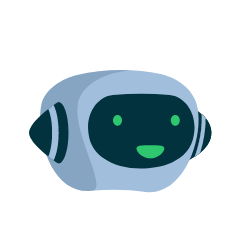
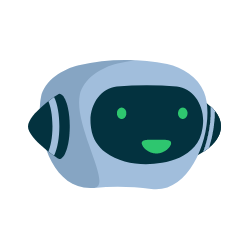
Alteração

Changed region(s): [[0.112, 0.224, 0.896, 0.784], [0.448, 0.42, 0.504, 0.504], [0.672, 0.728, 0.7, 0.756]]

diff --git a/Sobre.html b/Sobre.html
@@ -7,7 +7,7 @@
     <meta name="viewport" content="width=device-width, initial-scale=1.0">
     <title>Sobre a Tecnews</title>
     <link rel="stylesheet" href="CSS/style_sobre.css">
-    <link rel="shortcut icon" href="Imagens/headrobot.png" type="image/x-icon">
+    <link rel="shortcut icon" href="Imagens/favicon.svg" type="image/x-icon">
 </head>
 
 <body>
@@ -22,8 +22,7 @@
     <h2>A Tecnews é um portal de notícias sobre tecnologias desenvolvido <br> por Robert Everthon, Diogo Santana e João Victor.</h2>
 
     <hr>
-
-    <p>O nome Tecnews é formado pelo prefixo "tec", que vem de tecnologia e o sufixo "news", este último vem do inglês que significa<br> notícia. Decidimos criar um portal com o tema notícias sobre tecnologias porque é um tema interessante e que<br> gostamos bastante.</p>
+    <p>O nome Tecnews é formado pelo prefixo "tec", que vem de tecnologia e o sufixo "news", este último vem <br>do inglês que significa notícia. Decidimos criar um portal com o tema notícias sobre tecnologias porque <br>é um tema interessante e que gostamos bastante.</p>
 
     <div class="centralizar">
         <img src="Imagens/headrobot.png" alt="robô">

diff --git a/Tecnews_principal.html b/Tecnews_principal.html
@@ -6,7 +6,7 @@
     <meta http-equiv="X-UA-Compatible" content="IE=edge">
     <meta name="viewport" content="width=device-width, initial-scale=1.0">
     <title>Tecnews</title>
-    <link rel="shortcut icon" href="Imagens/headrobot.png" type="image/x-icon">
+    <link rel="shortcut icon" href="Imagens/favicon.svg" type="image/x-icon">
     <link rel="stylesheet" href="CSS/style_index.css">
 </head>
 <body>

diff --git a/Fale_conosco.html b/Fale_conosco.html
@@ -7,7 +7,7 @@
     <meta name="viewport" content="width=device-width, initial-scale=1.0">
     <title>Fale conosco</title>
     <link rel="stylesheet" href="CSS/style_faleconosco.css">
-    <link rel="shortcut icon" href="Imagens/headrobot.png" type="image/x-icon">
+    <link rel="shortcut icon" href="Imagens/favicon.svg" type="image/x-icon">
 </head>
 
 <body>

diff --git a/Cadastros.html b/Cadastros.html
@@ -7,6 +7,7 @@
     <meta name="viewport" content="width=device-width, initial-scale=1.0">
     <title>Área de Cadastro</title>
     <link rel="stylesheet" href="CSS/style_cadastro.css">
+    <link rel="shortcut icon" href="Imagens/favicon.svg" type="image/x-icon">
 </head>
 
 <body>

diff --git a/Login.html b/Login.html
@@ -7,6 +7,7 @@
     <meta name="viewport" content="width=device-width, initial-scale=1.0">
     <title>Login tecnews</title>
     <link rel="stylesheet" href="CSS/style_login.css">
+    <link rel="shortcut icon" href="Imagens/favicon.svg" type="image/x-icon">
 </head>
 
 <body>

diff --git a/CSS/style_sobre.css b/CSS/style_sobre.css
@@ -27,6 +27,7 @@ a {
 p {
     font-family: textos;
     font-size: 23px;
+    text-indent: 35px;
 }
 
 h1 {
@@ -35,6 +36,7 @@ h1 {
 
 h2 {
     color: rgb(8, 230, 100);
+    text-indent: 35px;
 }
 
 body {
